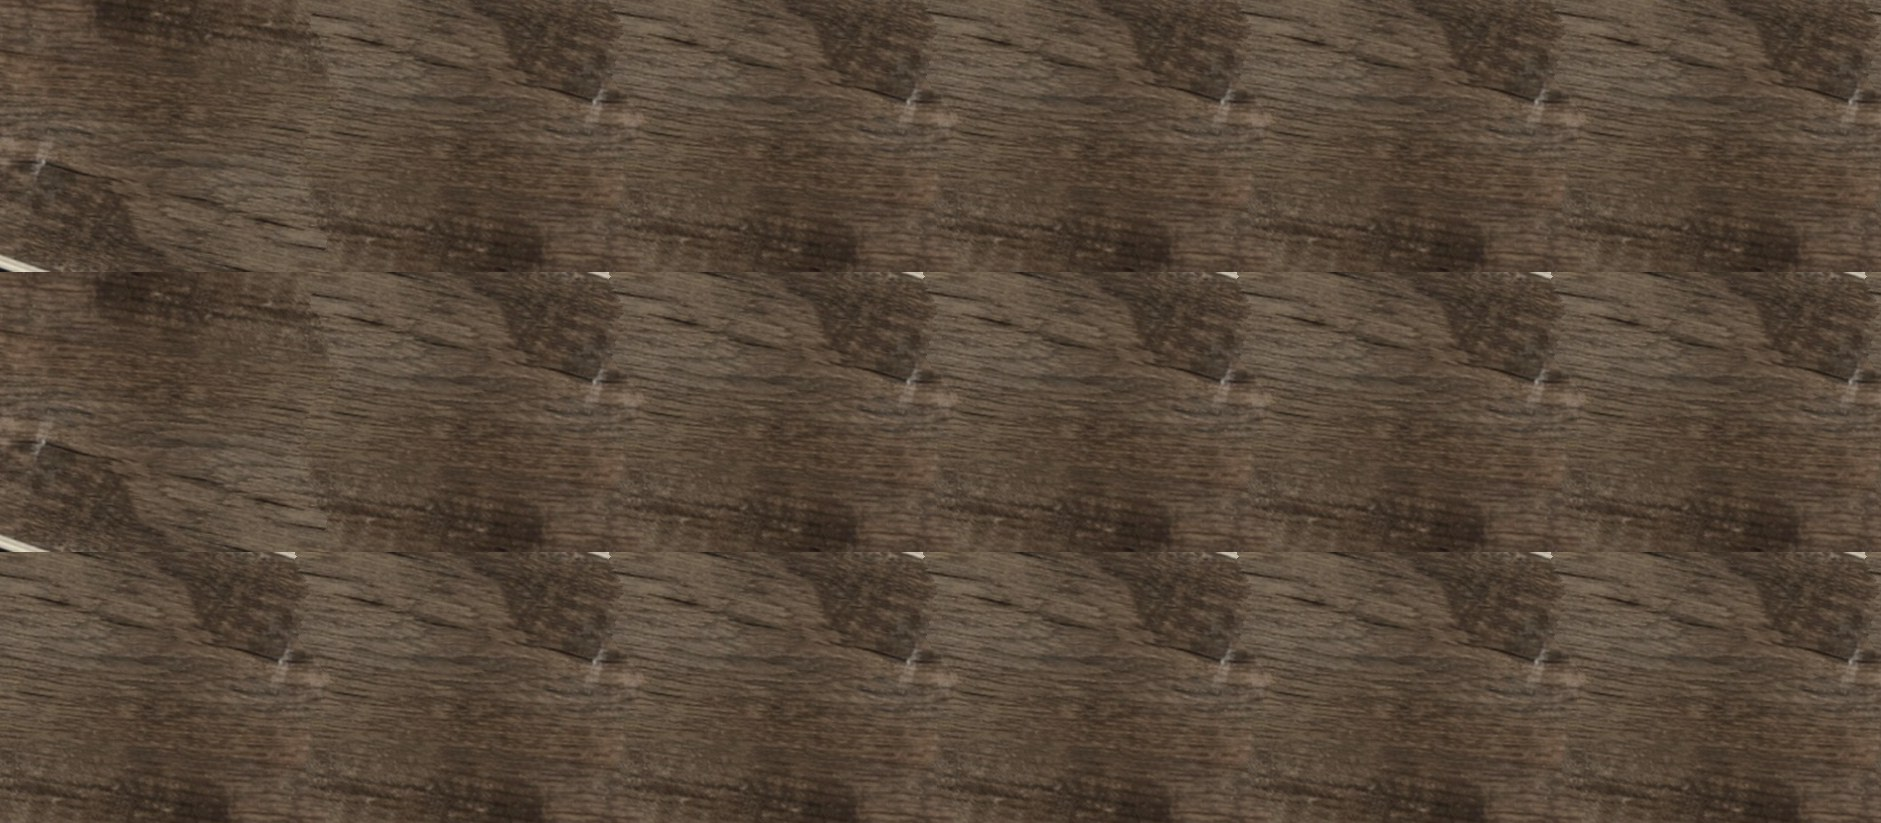
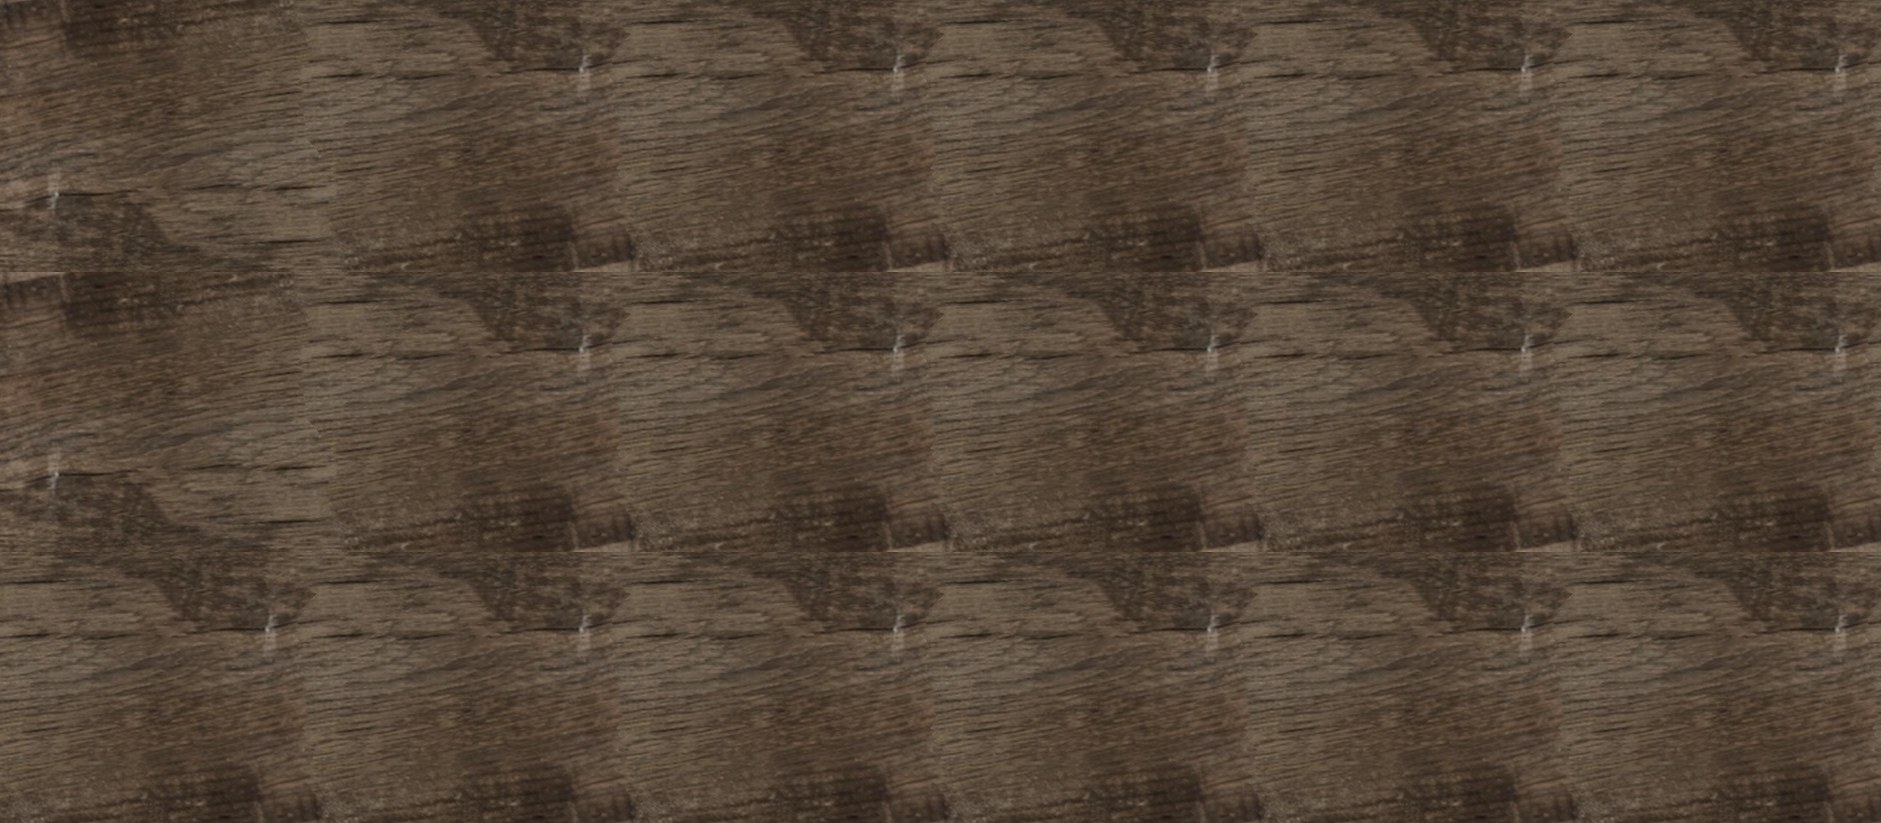
Pictures for 13 more floors in stock, and herringbone in the room
The carpets on the sale wall (Filaments, Smoky Quartz, Sweet Maple, Pine
Log, Nightshade, Gravestone, Almond Creme, Kingston Grey, Quiet Beige,
Capricorn) are laid from your photos of their samples. Adura Flex is laid
as 12" x 24" stone tiles from your photo, Clearwater shows Engineered
Floors' picture (it is their PureGrain Flex 4026), and Manor Herringbone
is laid in a real herringbone. Boards made from your photos now come out
straight.

Claude-Session: https://claude.ai/code/session_019ZShKdcrMpbqkha2ENR6Bh

Changed region(s): [[0.0, 0.0, 1.0, 1.0], [0.8942, 0.8202, 0.925, 0.8505], [0.4009, 0.8505, 0.4317, 0.8809]]

diff --git a/assets/room.js b/assets/room.js
@@ -79,11 +79,23 @@
       "vec2 sc=vec2(1.0/(uUnit.x*uPL),1.0/(uUnit.y*uN));" +
       "fl=tex(vec2(tx,(k+l.y)/uN),dx*sc,dy*sc)*(0.95+0.1*fract(id*31.7));" +
       "vec2 e=min(loc,1.0-loc)*uUnit;fl*=1.0-0.45*max(aa(e.x,uSeam),aa(e.y,uSeam));}" +
-    "else{" +
+    "else if(uLayout<2.5){" +
       "vec2 c=floor(m/uUnit);vec2 loc=fract(m/uUnit);float id=h2(c);vec2 l=loc;" +
       "if(uTurn>0.5){if(fract(id*7.31)>0.5)l=1.0-l;if(uTurn>1.5&&fract(id*3.17)>0.5)l=vec2(l.y,1.0-l.x);}" +
       "vec2 sc=1.0/uUnit;fl=tex(l,dx*sc,dy*sc);" +
       "vec2 e=min(loc,1.0-loc)*uUnit;fl=mix(fl,uGrout,max(aa(e.x,uSeam),aa(e.y,uSeam)));}" +
+    /* herringbone: boards uUnit.x long and uUnit.y wide, n = length/width, the zigzag running across the room.
+       In board widths, turned 45 degrees, a lying board covers [0,n)x[0,1) and a standing one [n,n+1)x[0,n),
+       repeated by (1,-1) and (n,n); each point belongs to exactly one board. */
+    "else{" +
+      "float n=max(2.0,floor(uUnit.x/uUnit.y+0.5));vec2 q=m/uUnit.y;q=vec2(q.x+q.y,q.y-q.x)*0.70710678;" +
+      "float Y=floor(q.y);float j=floor((q.x+Y)/(2.0*n));float rx=q.x+Y-2.0*n*j;vec2 L;vec2 cid;" +
+      "if(rx<n){L=vec2(rx/n,q.y-Y);cid=vec2(j,Y);}" +
+      "else{float X=floor(q.x);j=floor((q.y+X-n)/(2.0*n));L=vec2((q.y+X-n-2.0*n*j)/n,q.x-X);cid=vec2(j+0.5,X);}" +
+      "float id=h2(cid*vec2(1.37,0.71));float k=min(floor(id*uN),uN-1.0);vec2 l=L;if(fract(id*17.13)>0.5)l=1.0-l;" +
+      "vec2 sc=vec2(1.0/(n*uUnit.y),1.0/(uUnit.y*uN));" +
+      "fl=tex(vec2(l.x,(k+l.y)/uN),dx*sc,dy*sc)*(0.95+0.1*fract(id*31.7));" +
+      "vec2 e=vec2(min(L.x,1.0-L.x)*n,min(L.y,1.0-L.y))*uUnit.y;fl*=1.0-0.45*max(aa(e.x,uSeam),aa(e.y,uSeam));}" +
     "float l=texture2D(uLight,st).r;float light=mix(1.0,clamp(pow(l/uAvg,0.75),0.38,1.45),uShade);" +
     "gl_FragColor=vec4(mix(ph,fl*light,area*uOn),1.0);}";
   function shader(type, src){ var s = gl.createShader(type); gl.shaderSource(s, src); gl.compileShader(s); if (!gl.getShaderParameter(s, gl.COMPILE_STATUS)) throw new Error(gl.getShaderInfoLog(s)); return s; }
@@ -362,6 +374,9 @@
       out.pl = Math.min(1, (ph.photoLengthIn || pw[1])/pw[1]);
       out.seam = (ph.jointIn || 0.03)*IN;
       out.across = !ph.across;   /* the photo's boards lie left to right; on the floor they run away from you */
+    } else if (ph.layout === "herringbone"){
+      var hb = (ph.plankIn || [6, 24]);
+      out.kind = 3; out.unit = [hb[1]*IN, hb[0]*IN]; out.n = Math.max(1, ph.planks || 1); out.seam = (ph.jointIn || 0.03)*IN;
     } else if (ph.layout === "tile"){
       var tw = (ph.tileIn || [12, 12]);
       out.kind = 2; out.unit = [tw[1]*IN, tw[0]*IN]; out.seam = Math.max(0.0003, (ph.groutIn == null ? 0.125 : ph.groutIn)*IN/2);
@@ -406,7 +421,7 @@
       var lk = layoutOf(f).kind, sz = $("size");
       if (f.type === "carpet"){ sz.value = sz.max; S.size = Math.pow(2, parseFloat(sz.max)/100); }
       else if (wasCarpet){ sz.value = 0; S.size = 1; }
-      $("turn").textContent = lk === 1 || (f.type === "look" && f.look === "wood") || (!lk && /plank|laminate|hardwood/.test(f.type)) ? "Turn the planks" : lk === 2 ? "Turn the tiles" : "Turn the pattern";
+      $("turn").textContent = lk === 1 || lk === 3 || (f.type === "look" && f.look === "wood") || (!lk && /plank|laminate|hardwood/.test(f.type)) ? "Turn the planks" : lk === 2 ? "Turn the tiles" : "Turn the pattern";
       bindFloor(cache[f.id], f);
     }
     if (cache[f.id]){ show(); return; }

diff --git a/room.html b/room.html
@@ -169,7 +169,7 @@ body::after{background:radial-gradient(90% 70% at 50% 0%,rgba(255,255,255,.55),r
 </main>
 
 <script src="assets/shelf.js?v=6"></script>
-<script src="assets/room.js?v=9"></script>
+<script src="assets/room.js?v=10"></script>
 <script src="assets/camera.js?v=1"></script>
 </body>
 </html>

diff --git a/tools/quilt.py b/tools/quilt.py
@@ -148,6 +148,8 @@ def strip_quilt(a, ok, out_w, rng, overlap):
             start = None
     if not runs:
         raise ValueError("no clean stretch across the whole board")
+    longest = max(e - s for s, e in runs)
+    runs = [r for r in runs if r[1] - r[0] >= max(3 * overlap, 0.5 * longest)]   # only the long clean stretches
     variants = [a, a[::-1, ::-1]]   # as photographed, or turned end for end (never mirrored: that shows)
     longest = max(e - s for s, e in runs)
     piece = max(3 * overlap, min(longest, int(out_w * 0.45)))
@@ -213,8 +215,8 @@ def job(j, photos, outdir, seed=7):
         # straighten a board that leans in the photo, then cut away the corners the turn brings in
         ang = j.get("angle", grain_angle(a, okm))
         if abs(ang) > 0.4:
-            a = ndimage.rotate(a, -ang if j.get("grain", "vertical") == "vertical" else ang, reshape=False, order=1, mode="nearest")
-            okm = ndimage.rotate(okm.astype(np.uint8), -ang if j.get("grain", "vertical") == "vertical" else ang, reshape=False, order=0, mode="constant", cval=0) > 0
+            a = ndimage.rotate(a, ang if j.get("grain", "vertical") == "vertical" else -ang, reshape=False, order=1, mode="nearest")
+            okm = ndimage.rotate(okm.astype(np.uint8), ang if j.get("grain", "vertical") == "vertical" else -ang, reshape=False, order=0, mode="constant", cval=0) > 0
             t = abs(np.tan(np.radians(ang)))
             my, mx = int(t * a.shape[1] / 2) + 4, int(t * a.shape[0] / 2) + 4
             a, okm = a[my:-my, mx:-mx], okm[my:-my, mx:-mx]

diff --git a/tools/inventory.py b/tools/inventory.py
@@ -39,7 +39,7 @@ you don't know them. Columns (any order, any capitalisation):
     grout_color      #BDB6AA
     id               (made from brand, collection and name when blank)
     code             MPB821                       (the maker's item number)
-    layout           roll                         (lay the photo as one repeating picture, whatever the floor)
+    layout           roll | plank | tile | herringbone  (how the photo is laid; blank: by the type of floor)
     photo_from       maker                        (the maker's own picture: no cutting out or evening the light)
     repeat           mirror | blend | tile        (how a repeating picture meets itself; tile: made by tools/quilt.py)
 
@@ -173,11 +173,11 @@ def product(r, brands):
         if r.get("sale_ends"):
             s["ends"] = day(r["sale_ends"])
         p["sale"] = s
-    layout = r.get("layout", "").lower() if r.get("layout", "").lower() in ("roll", "plank", "tile") else LAYOUT[t]
+    layout = r.get("layout", "").lower() if r.get("layout", "").lower() in ("roll", "plank", "tile", "herringbone") else LAYOUT[t]
     ph = {"layout": layout}
     if layout == "roll":
         ph["widthIn"] = num(r.get("sample_width_in")) or 18
-    elif layout == "plank":
+    elif layout in ("plank", "herringbone"):
         ph["plankIn"] = [num(r.get("plank_width_in")) or 7, num(r.get("plank_length_in")) or 48]
         ph["planks"] = int(num(r.get("planks_in_photo")) or 1)
     else:

diff --git a/tools/photo_prep.py b/tools/photo_prep.py
@@ -88,9 +88,9 @@ def prepare(src, pid, photo, root, floors, cap=None, thumb=560, quality=88, clea
         x0, y0, x1, y1 = [int(v / k) for v in box]
     im = im.crop((x0, y0, x1, y1))
     layout = photo.get("layout", "roll")
-    if layout == "plank" and im.height > im.width:
+    if layout in ("plank", "herringbone") and im.height > im.width:
         im = im.rotate(90, expand=True)
-    real = photo.get("widthIn") if layout == "roll" else (photo.get("plankIn") or [7, 48])[1] if layout == "plank" else (photo.get("tileIn") or [12])[0]
+    real = photo.get("widthIn") if layout == "roll" else (photo.get("plankIn") or [7, 48])[1] if layout in ("plank", "herringbone") else (photo.get("tileIn") or [12])[0]
     if real and not clean and im.width / float(real) < 25:
         warnings.append("only %d pixels per inch of sample; get closer or use the full camera resolution" % (im.width / float(real)))
 
